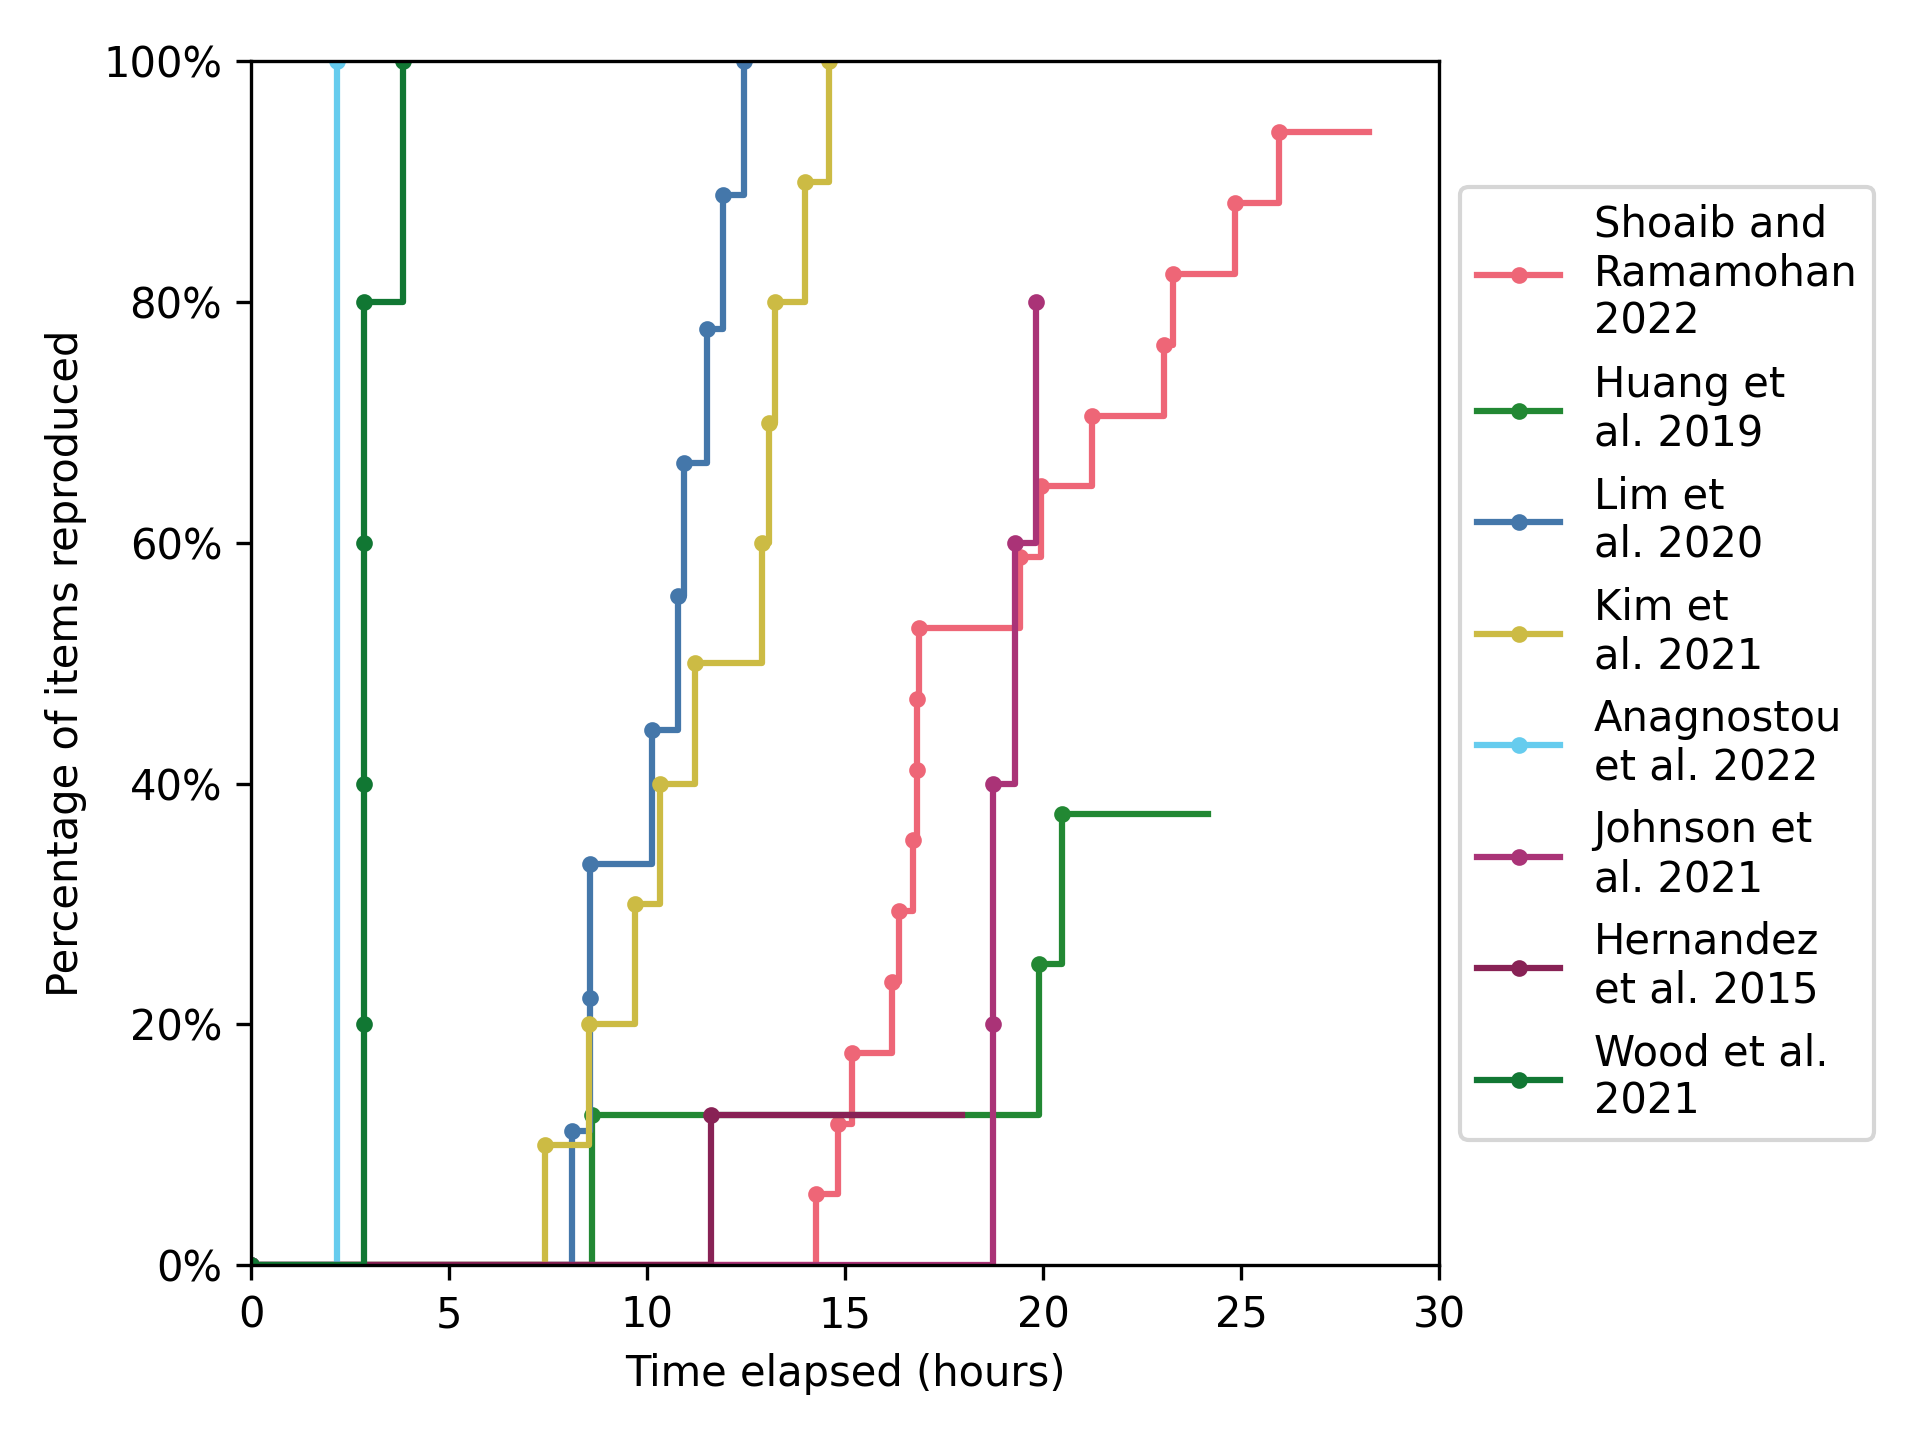
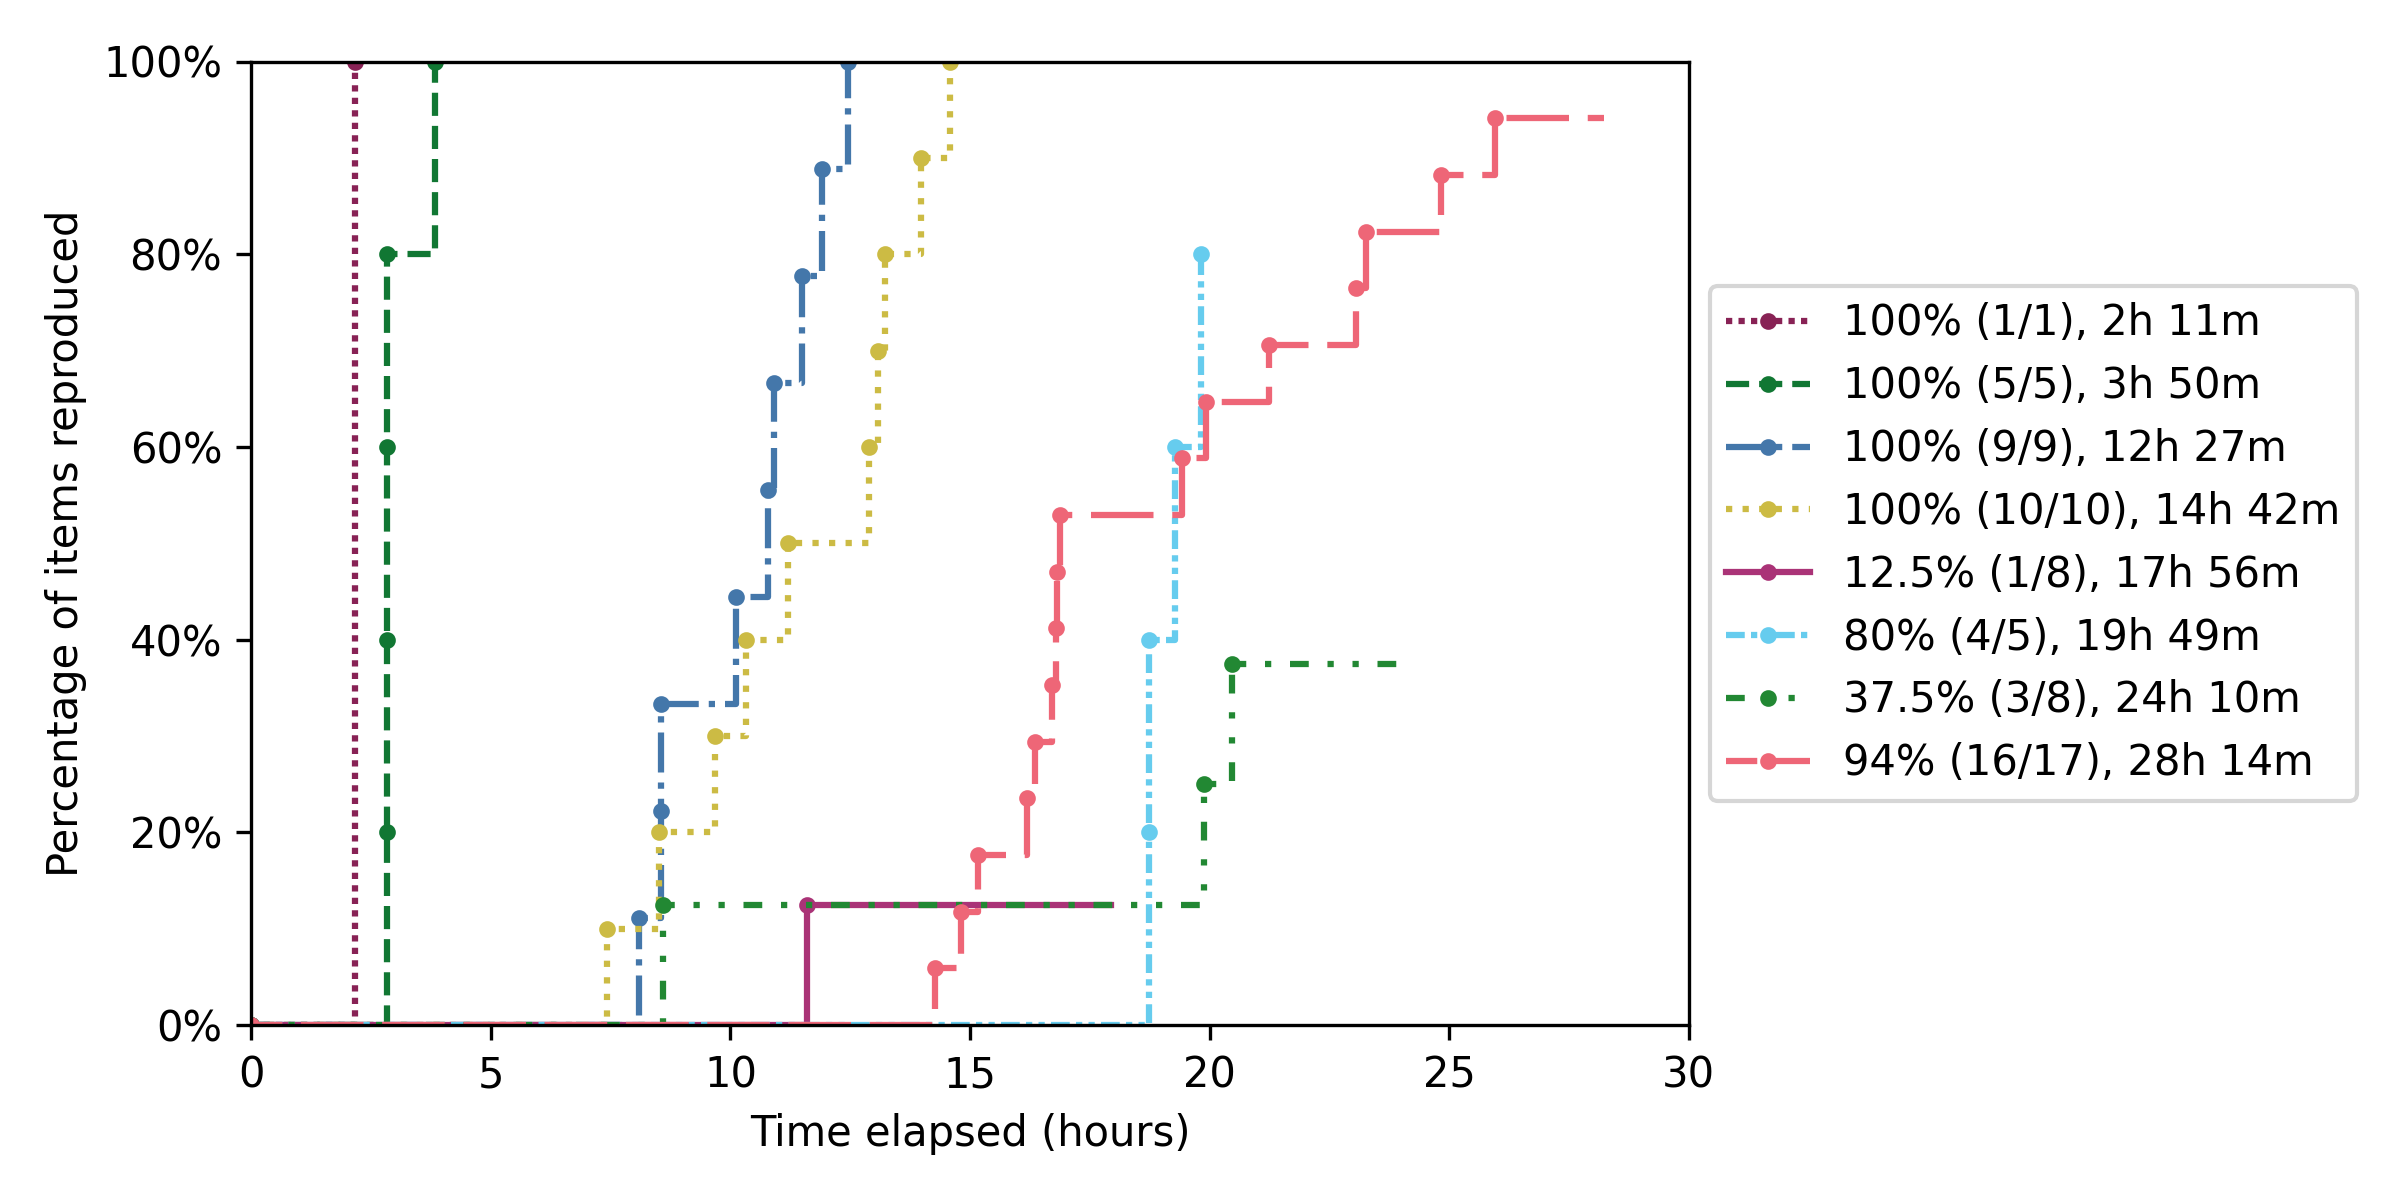
feat(reproduction): add linestyles and alt legend to time-to-completion non-interactive

Changed region(s): [[0.0, 0.0308, 0.7812, 0.9867], [0.6875, 0.1233, 1.0, 0.8017], [0.75, 0.1233, 0.7812, 0.1542]]

diff --git a/pages/functions.py b/pages/functions.py
@@ -114,7 +114,7 @@ def success_interactive(times_df, fig, label, colour):
             '%{hovertext}<br>Time: %{x:.1f} hours<br>Completion: %{y:.1f}%')))
 
 
-def success_static(times_df, ax, label, colour):
+def success_static(times_df, ax, label, colour, ls):
     '''
     Create static/non-interactive plot of time-to-completion
 
@@ -128,8 +128,11 @@ def success_static(times_df, ax, label, colour):
         Label for the line
     colour : string
         Colour of line
+    ls : string or tuple
+        Line style
     '''
-    ax.plot(times_df['hours'], times_df['ecdf'], marker='.', markevery=2,
+    ax.plot(times_df['hours'], times_df['ecdf'],
+            marker='.', markevery=2, linestyle=ls,
             label=label.replace('<br>', '\n'), color=colour)
 
 
